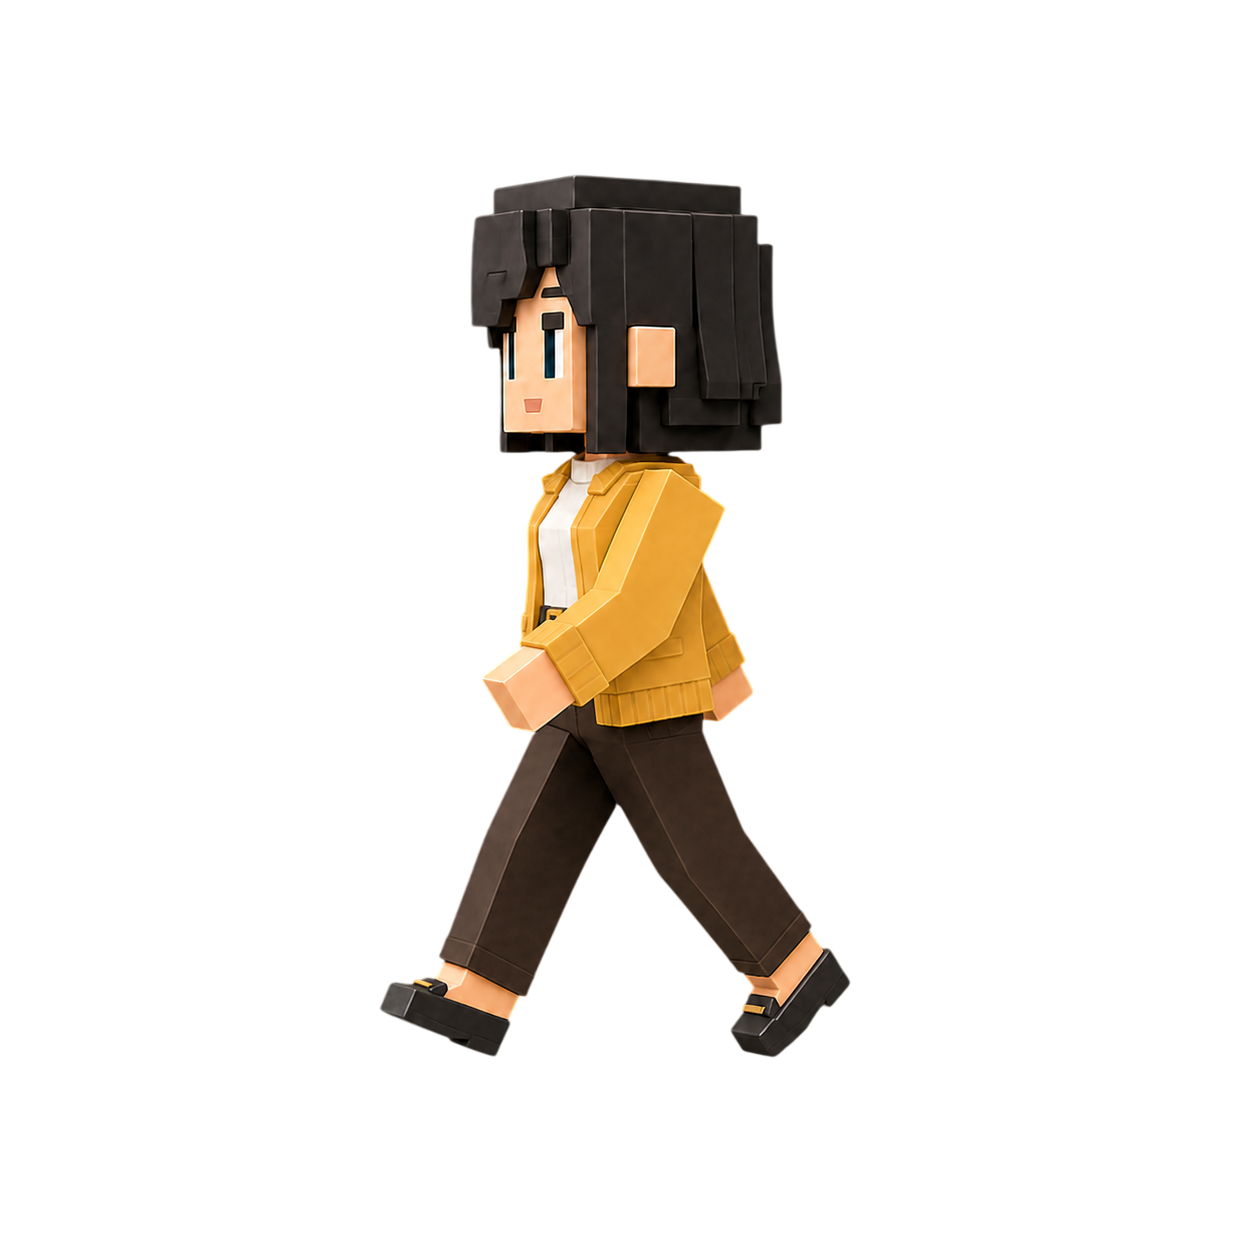
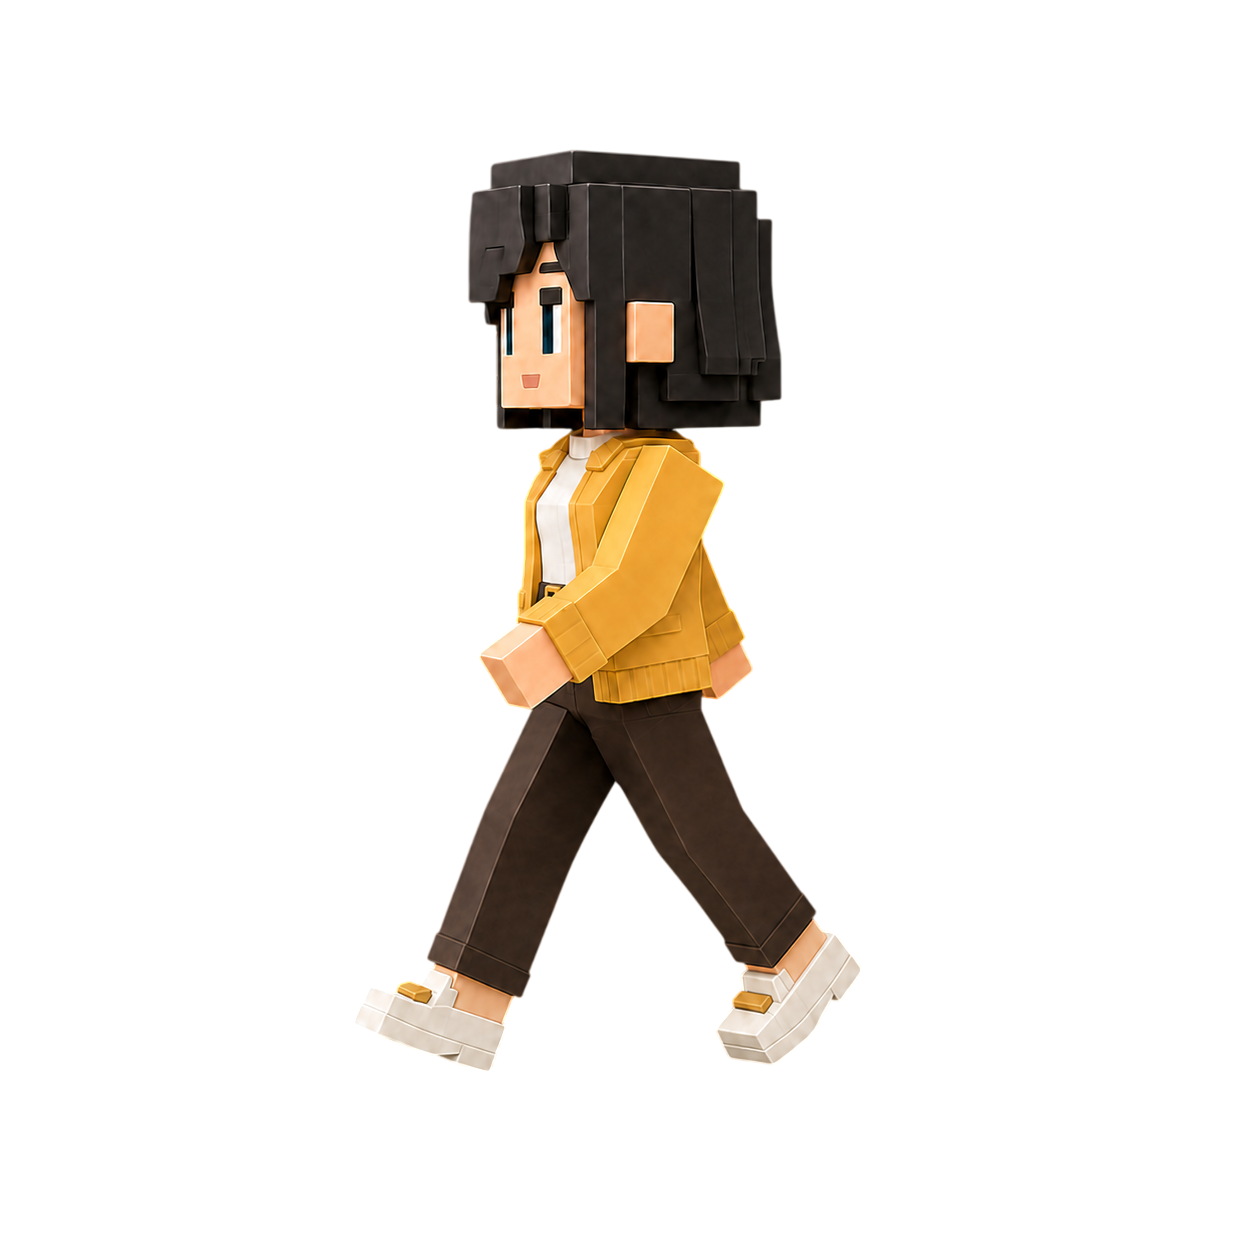
FE-disign : 전체시각화 건물이미지 로고 추가 및 신발 이미지 수정 + 대시보드 대화 팝업창 조정

Changed region(s): [[0.2799, 0.0933, 0.6842, 0.8708], [0.5909, 0.1555, 0.622, 0.2177], [0.4354, 0.6842, 0.4665, 0.7464]]

diff --git a/frontend/src/pages/DashboardPage.tsx b/frontend/src/pages/DashboardPage.tsx
@@ -1,10 +1,11 @@
 import { useEffect, useState, useCallback } from 'react'
-import { Server, Wifi, Bot, Eye, Plus, LayoutList, Loader2 } from 'lucide-react'
+import { Server, Wifi, Bot, Eye, Plus, Loader2, KeyRound } from 'lucide-react'
 import { motion } from 'motion/react'
 import { useNavigate } from 'react-router'
 import { useUIStore } from '@/store/useUIStore'
 import { getIotDevices, deleteIotDevice, pairIotDevice, type IotDevice } from '@/apis/iot'
 import { Dialog, DialogContent, DialogTitle, DialogDescription } from '@/components/ui/dialog'
+import { NewSessionModal, type CustomAgentConfig } from '@/components/session/NewSessionModal'
 
 // ── Mock 상태 (서버·에이전트) ─────────────────────────────────────────────────
 type ServerStatus = 'ok' | 'error'
@@ -387,13 +388,14 @@ function agentStatusConfig(s: AgentStatus) {
 // ── DashboardPage ─────────────────────────────────────────────────────────────
 export function DashboardPage() {
   const navigate = useNavigate()
-  const { setSidebarCollapsed } = useUIStore()
+  const { setSidebarCollapsed, setSettingsOpen } = useUIStore()
 
   const [iotDevices, setIotDevices] = useState<IotDevice[]>([])
   const [iotLoading, setIotLoading] = useState(true)
   const [pairingOpen, setPairingOpen] = useState(false)
   const [confirmOpen, setConfirmOpen] = useState(false)
   const [pendingDeviceId, setPendingDeviceId] = useState<string | null>(null)
+  const [newSessionOpen, setNewSessionOpen] = useState(false)
 
   const fetchDevices = useCallback(
     () =>
@@ -488,12 +490,12 @@ export function DashboardPage() {
             <ActionButton
               icon={<Plus className="h-4 w-4" />}
               label="새 작업 요청하기"
-              onClick={() => navigate('/new-chat')}
+              onClick={() => setNewSessionOpen(true)}
             />
             <ActionButton
-              icon={<LayoutList className="h-4 w-4" />}
-              label="세션 목록 보기"
-              onClick={() => setSidebarCollapsed(false)}
+              icon={<KeyRound className="h-4 w-4" />}
+              label="API 키 등록"
+              onClick={() => setSettingsOpen(true, 'apiKeys')}
             />
           </div>
         </motion.section>
@@ -542,6 +544,30 @@ export function DashboardPage() {
         onOpenChange={setConfirmOpen}
         onConfirm={handleDeregisterConfirm}
       />
+
+      <NewSessionModal
+        open={newSessionOpen}
+        onOpenChange={setNewSessionOpen}
+        onConfirm={(config) => {
+          storePendingSessionConfig(config)
+          setNewSessionOpen(false)
+          if (config) {
+            setSidebarCollapsed(false)
+            navigate('/agent-status')
+          } else {
+            setSidebarCollapsed(true)
+            navigate('/new-chat')
+          }
+        }}
+      />
     </div>
   )
+}
+
+function storePendingSessionConfig(config: CustomAgentConfig | undefined) {
+  if (config === undefined) {
+    sessionStorage.removeItem('ai-new-session-config')
+    return
+  }
+  sessionStorage.setItem('ai-new-session-config', JSON.stringify(config))
 }

diff --git a/frontend/src/components/session/NewSessionModal.tsx b/frontend/src/components/session/NewSessionModal.tsx
@@ -111,7 +111,7 @@ export function NewSessionModal({ open, onOpenChange, onConfirm }: NewSessionMod
   return (
     <Dialog open={open} onOpenChange={handleClose}>
       <DialogContent
-        className="max-h-[calc(100vh-24px)] w-[920px] max-w-[calc(100vw-24px)] gap-0 overflow-hidden p-0 [&>button]:hidden"
+        className="max-h-[calc(100vh-24px)] w-full max-w-lg gap-0 overflow-hidden p-0 [&>button]:hidden"
         aria-describedby="new-session-description"
       >
         <DialogTitle className="sr-only">새 대화 시작</DialogTitle>
@@ -218,9 +218,9 @@ export function NewSessionModal({ open, onOpenChange, onConfirm }: NewSessionMod
                 </button>
               </div>
 
-              <div className="space-y-4 px-5 py-4">
+              <div className="max-h-[calc(100vh-200px)] space-y-4 overflow-y-auto px-5 py-4">
                 {customizeStep === 'settings' ? (
-                  <div className="grid gap-3 md:grid-cols-[minmax(0,1fr)_minmax(20rem,0.78fr)]">
+                  <div className="grid gap-3">
                     <div className="space-y-3">
                       <AgentSectionCard title="프로필">
                         <div className="grid gap-3 sm:grid-cols-[13rem_minmax(0,1fr)]">

diff --git a/frontend/src/pages/BuildingOverviewPage.tsx b/frontend/src/pages/BuildingOverviewPage.tsx
@@ -147,6 +147,21 @@ export function BuildingOverviewPage() {
             display: 'block',
           }}
         />
+
+        {/* 회사 로고 오버레이 */}
+        <img
+          src="/assets/maps/logo.png"
+          alt="Logo"
+          draggable={false}
+          style={{
+            position: 'absolute',
+            top: 48,
+            left: 1070,
+            width: 180,
+            height: 'auto',
+            pointerEvents: 'none',
+          }}
+        />
         {FLOORS.map((floor) => (
           <div
             key={floor.sessionId}
